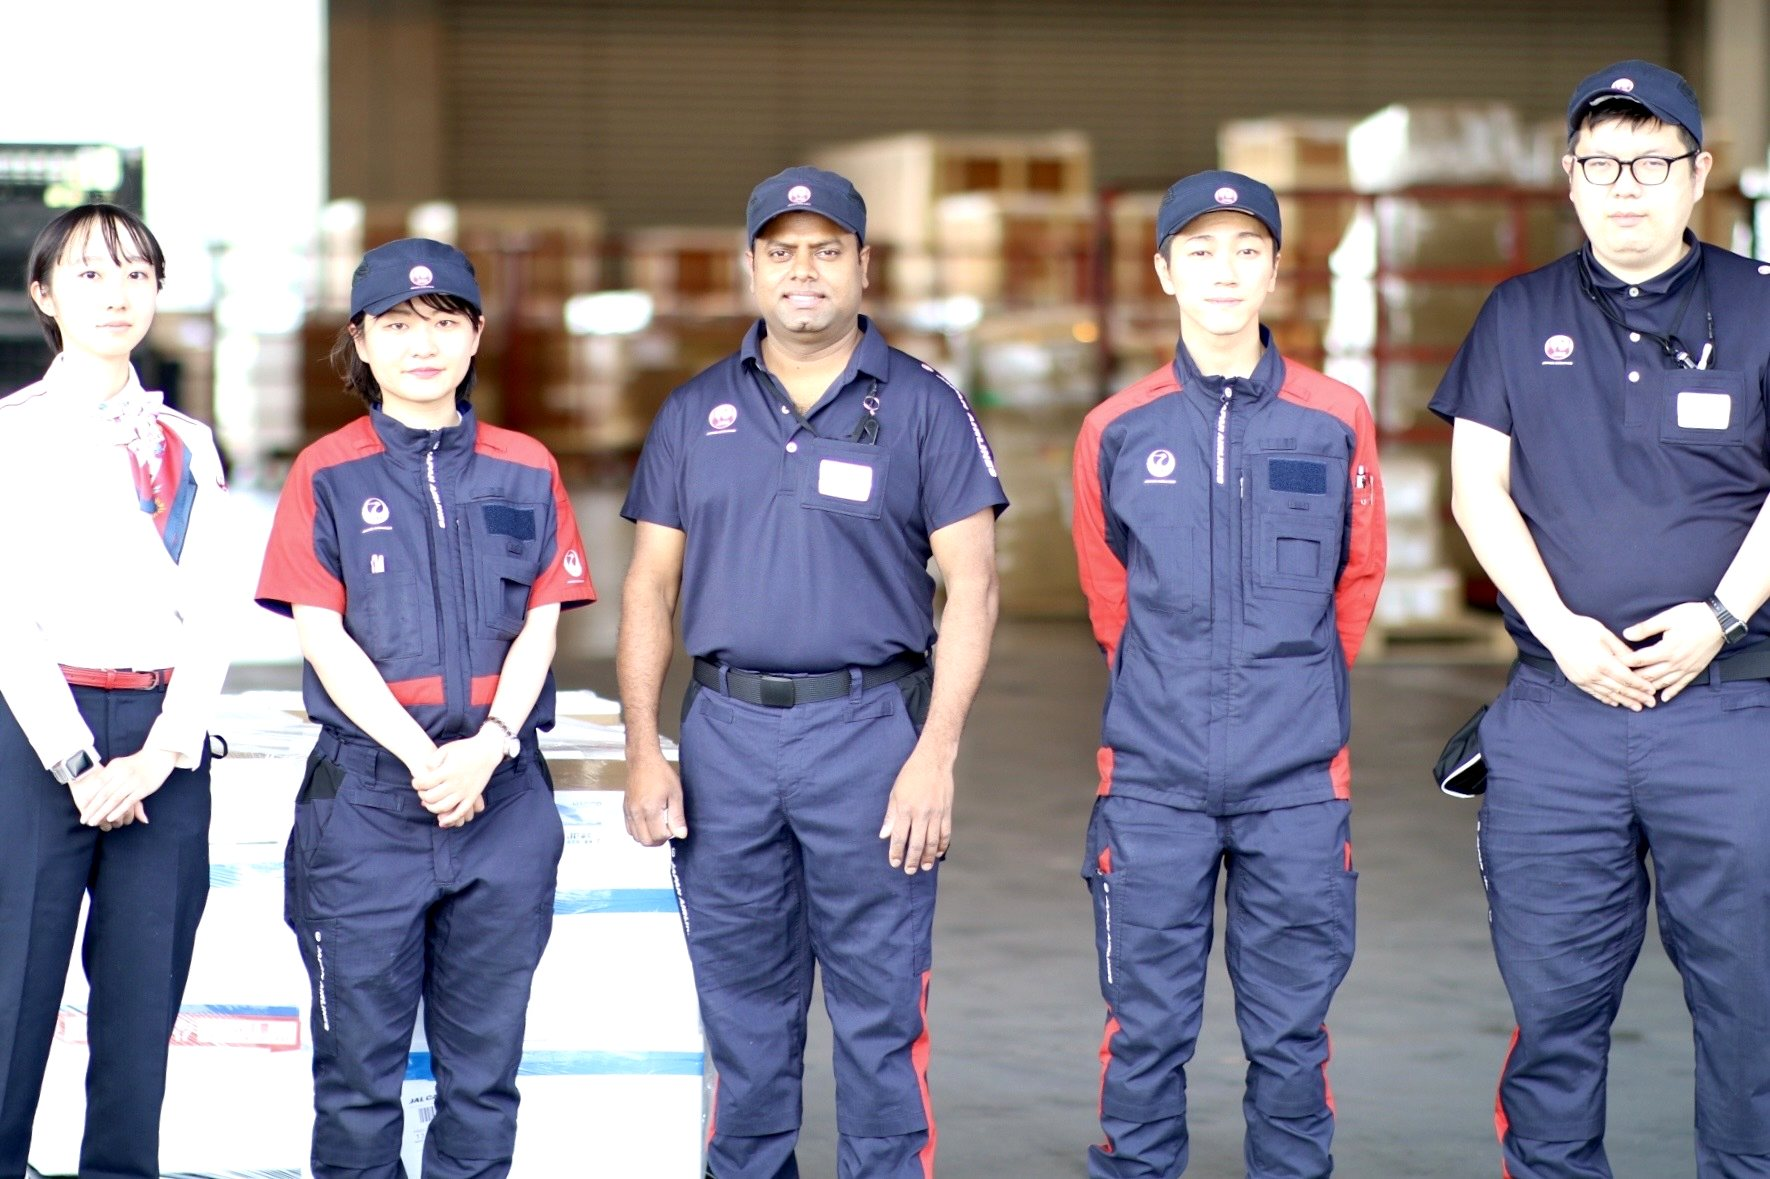
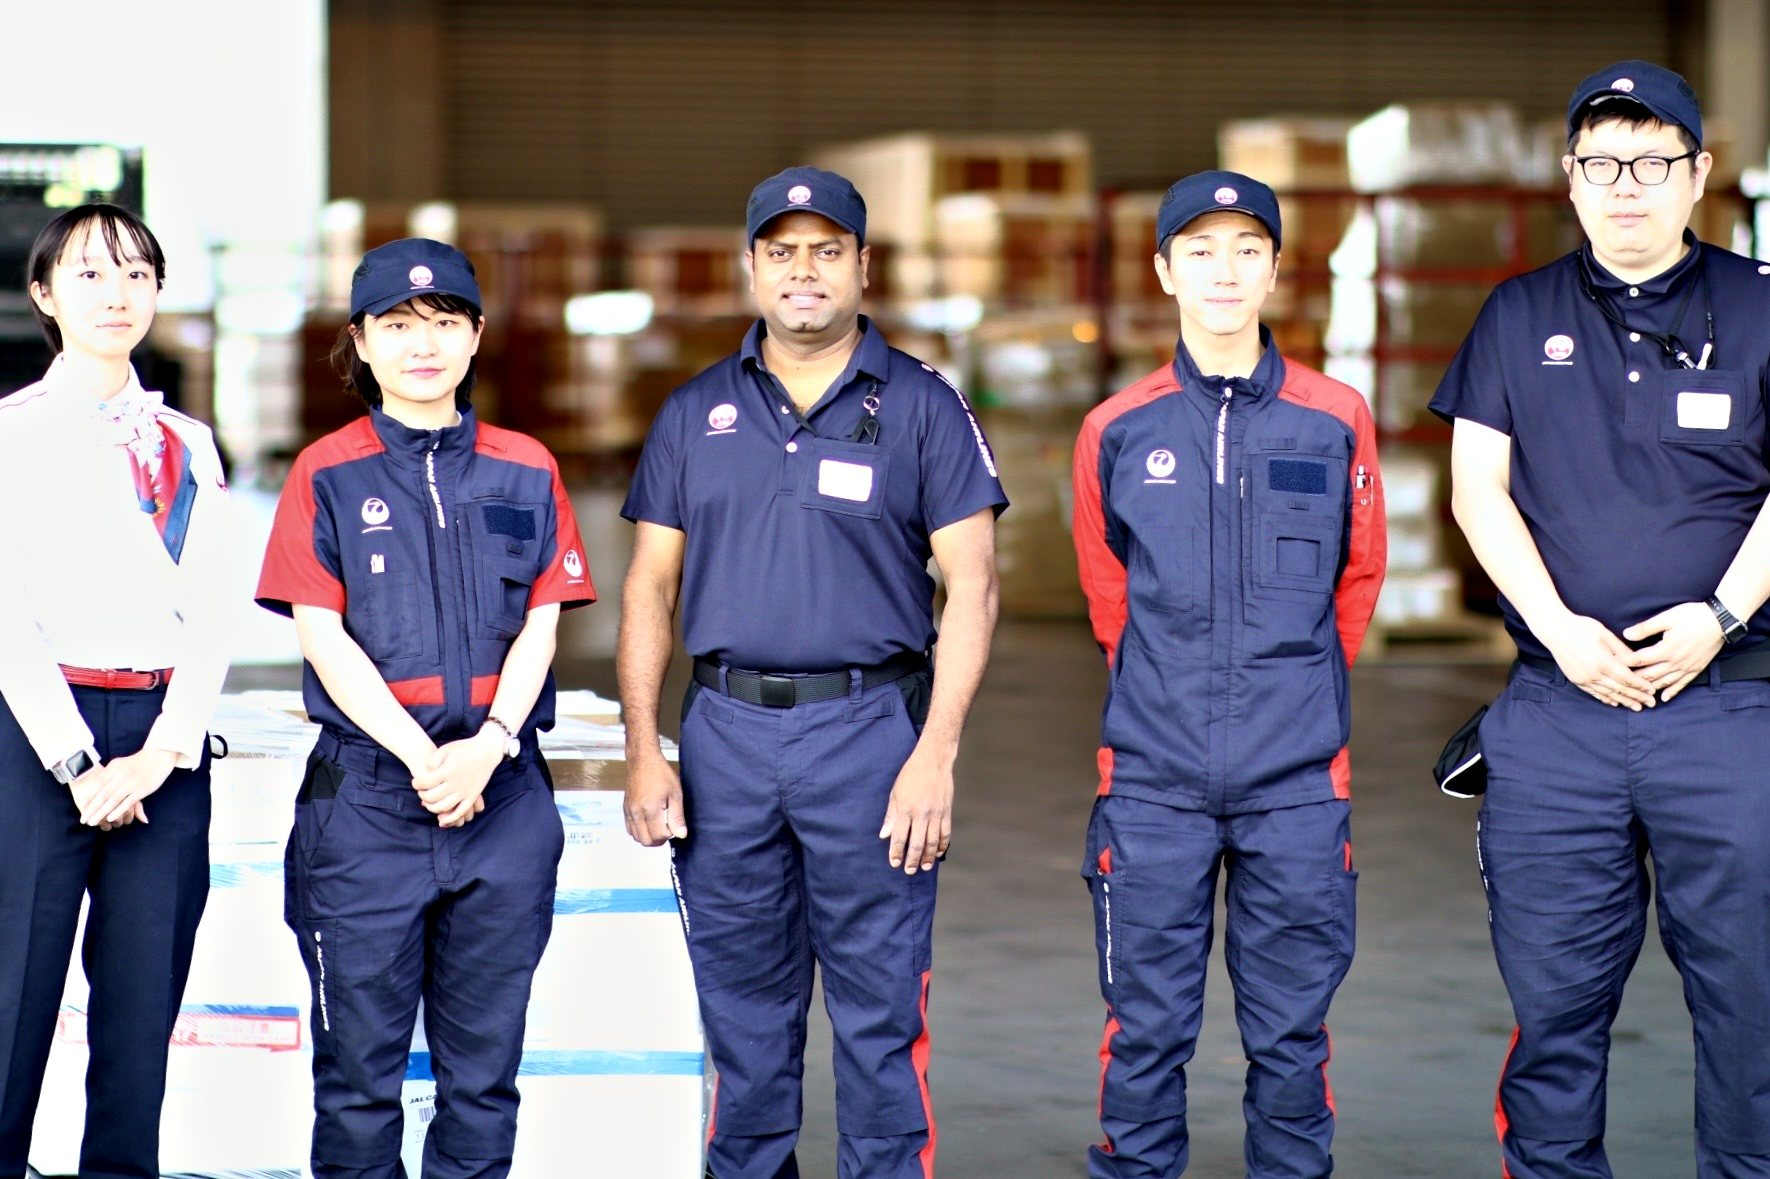
ヒーロー写真の白飛び・かすみを補正、全体に淡い空の背景を追加
- ヒーロー(4番): かすみ除去・ハイライト抑制・軽いコントラスト補正
- 課題/サービス/導入事例/FAQ/お問い合わせに、流れセクションと同じ淡い空の背景を追加
- サービスとFAQにWECエンブレムの透かし(左右交互)

Claude-Session: https://claude.ai/code/session_014LQT5eJGL9oUZWcXo2RBLh

diff --git a/src/style.css b/src/style.css
@@ -2268,3 +2268,62 @@ details[open] summary::after {
     top: 30px;
   }
 }
+
+/* ===== 全体の淡い空の背景(流れのセクションと統一) ===== */
+.problem,
+.services,
+.cases,
+.faq,
+.contact {
+  position: relative;
+  overflow: hidden;
+}
+
+.problem,
+.cases,
+.contact {
+  background: url('/sky-bg-top.jpg') center top / cover no-repeat;
+}
+
+.services,
+.faq {
+  background: url('/flow-bg.jpg') center bottom / cover no-repeat;
+}
+
+/* エンブレムの透かし(左右交互) */
+.services::before,
+.faq::before {
+  content: '';
+  position: absolute;
+  width: 480px;
+  height: 400px;
+  top: 40px;
+  background: url('/wec-emblem.png') center / contain no-repeat;
+  opacity: 0.06;
+  pointer-events: none;
+}
+
+.services::before {
+  left: -90px;
+}
+
+.faq::before {
+  right: -90px;
+}
+
+.problem > .container,
+.services > .container,
+.cases > .container,
+.faq > .container,
+.contact > .container {
+  position: relative;
+  z-index: 1;
+}
+
+@media (max-width: 768px) {
+  .services::before,
+  .faq::before {
+    width: 260px;
+    height: 220px;
+  }
+}
